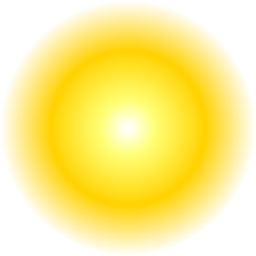
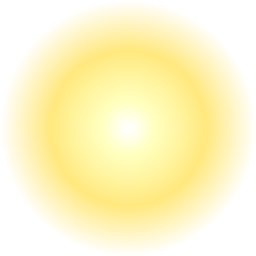
safe

diff --git a/js/main.js b/js/main.js
@@ -239,7 +239,7 @@ const soundIds = [
     'sfx_nom_short', 'sfx_fist_impact', 'bgm_gentle_space',
     'sfx_mystical_moon_explosion', 'sfx_holy_shine',
     'sfx_laser_hum', 'sfx_magical_star_fade', 'sfx_magical_star_shot', 'sfx_magical_star_shot2',
-    'sfx_freeze', 'sfx_shatter', 'sfx_lightning', 'sfx_error', 'sfx_void_body'
+    'sfx_freeze', 'sfx_shatter', 'sfx_lightning', 'sfx_error'
 ];
 soundIds.forEach(id => soundManager.load(id));
 
@@ -3652,7 +3652,27 @@ async function run(mode) {
         const planetSize = getPlanetSize();
         const radius = planetSize / 2;
 
-        // Draw Glowing Core at center (drawn behind the planet silhouette, so it's hidden until breached)
+        // Planet atmospheric glow (drawn behind silhouette and core glow, fades with mass)
+        if (currentPixelCount > 0 && !victoryTriggered) {
+            let glowImg = null;
+            if (currentPlanet === 'earth') glowImg = earthGlow;
+            else if (currentPlanet === 'mars') glowImg = marsGlow;
+            else if (currentPlanet === 'neptune') glowImg = neptuneGlow;
+            else if (currentPlanet === 'jupiter') glowImg = jupiterGlow;
+            else if (currentPlanet === 'neutron_star') glowImg = neutronStarGlow;
+
+            if (glowImg) {
+                const intRatio = Math.min(1, currentPixelCount / Math.max(1, initialPixelCount));
+                ctx.save();
+                ctx.translate(CENTER_X, CENTER_Y);
+                ctx.scale(planetScale, planetScale);
+                ctx.globalAlpha = intRatio;
+                ctx.drawImage(glowImg, -glowImg.width / 2, -glowImg.height / 2);
+                ctx.restore();
+            }
+        }
+
+        // Draw Glowing Core at center (drawn above atmospheric glow but behind the planet silhouette)
         if (currentPixelCount > 0 && !victoryTriggered && currentCorePixelCount > 0) {
             ctx.save();
             ctx.translate(CENTER_X, CENTER_Y);
@@ -3661,7 +3681,7 @@ async function run(mode) {
 
             const dxLocal = (PLANET_CANVAS_SIZE / 2) - planetCenterX;
             const dyLocal = (PLANET_CANVAS_SIZE / 2) - planetCenterY;
-            const coreRatio = initialCorePixelCount > 0 ? Math.max(0, ((currentCorePixelCount / initialCorePixelCount) - 0.05)) : 1.0;
+            const coreRatio = initialCorePixelCount > 0 ? ((currentCorePixelCount / initialCorePixelCount) + 0.15) : 1.0;
 
             let coreImg = null;
             if (currentPlanet === 'sun') {
@@ -3671,7 +3691,7 @@ async function run(mode) {
             }
 
             if (coreImg) {
-                const pulse = 0.925 + Math.sin(performance.now() * 0.005) * 0.05;
+                const pulse = 0.7 + Math.sin(performance.now() * 0.005) * 0.05;
                 ctx.save();
                 ctx.translate(dxLocal, dyLocal);
                 let scaleFactor = coreRatio * pulse * (planetSize / 240);
@@ -3730,26 +3750,6 @@ async function run(mode) {
                 ctx.restore();
             }
         });
-
-        // Planet atmospheric glow (drawn behind silhouette, fades with mass)
-        if (currentPixelCount > 0 && !victoryTriggered) {
-            let glowImg = null;
-            if (currentPlanet === 'earth') glowImg = earthGlow;
-            else if (currentPlanet === 'mars') glowImg = marsGlow;
-            else if (currentPlanet === 'neptune') glowImg = neptuneGlow;
-            else if (currentPlanet === 'jupiter') glowImg = jupiterGlow;
-            else if (currentPlanet === 'neutron_star') glowImg = neutronStarGlow;
-
-            if (glowImg) {
-                const intRatio = Math.min(1, currentPixelCount / Math.max(1, initialPixelCount));
-                ctx.save();
-                ctx.translate(CENTER_X, CENTER_Y);
-                ctx.scale(planetScale * 0.95, planetScale * 0.95);
-                ctx.globalAlpha = intRatio;
-                ctx.drawImage(glowImg, -glowImg.width / 2, -glowImg.height / 2);
-                ctx.restore();
-            }
-        }
 
         // Draw Planet Silhouette
         if (currentPixelCount > 0) {

diff --git a/js/planet.js b/js/planet.js
@@ -978,7 +978,8 @@ function createExplosion(localX, localY, radius, shakeIntensity, weaponType, sil
         }
     }
     if (currentPlanet === 'neutron_star') {
-        finalRadius *= 0.225;
+        finalRadius -= 3;
+        finalRadius *= 0.23;
     } else {
         finalRadius *= 0.94;
     }
@@ -1005,7 +1006,7 @@ function createExplosion(localX, localY, radius, shakeIntensity, weaponType, sil
             }
         } else if (weaponType === 'missile') {
             const detune = (Math.random() - 0.5) * 400; // +/- 200 cents
-            soundManager.play('sfx_explosion_small', false, 1.0, detune);
+            soundManager.play('sfx_explosion_small', false, 0.6 + Math.random() * 0.35, detune);
         } else if (weaponType === 'nuke') {
             const detune = (Math.random() - 0.5) * 1200; // +/- 600 cents
             soundManager.play('sfx_explosion_medium', false, 1.0, detune);
@@ -1247,7 +1248,8 @@ function createExplosionRaw(localX, localY, radius, weaponType) {
         }
     }
     if (currentPlanet === 'neutron_star') {
-        finalRadius *= 0.225;
+        finalRadius -= 3;
+        finalRadius *= 0.23;
     } else {
         finalRadius *= 0.94;
     }

diff --git a/js/weapons.js b/js/weapons.js
@@ -203,7 +203,7 @@ function spawnWeapon(clickX, clickY, typeOverride = null) {
             return;
         }
 
-        const playVol = 0.7 + Math.random() * 0.15;
+        const playVol = (0.7 + Math.random() * 0.15) * 0.5;
         const detune = (Math.random() - 0.5) * 300;
         soundManager.play('sfx_launch_heavy', false, playVol, detune);
         activeBowlingBalls.push({

diff --git a/js/config.js b/js/config.js
@@ -79,7 +79,7 @@ window.gameConfig = {
     },
     "gameplay": {
         "spawnDistance": 300,
-        "victoryThreshold": 1.75
+        "victoryThreshold": 1.5
     },
     "visual": {
         "backgroundColor": "#0a0a15",
